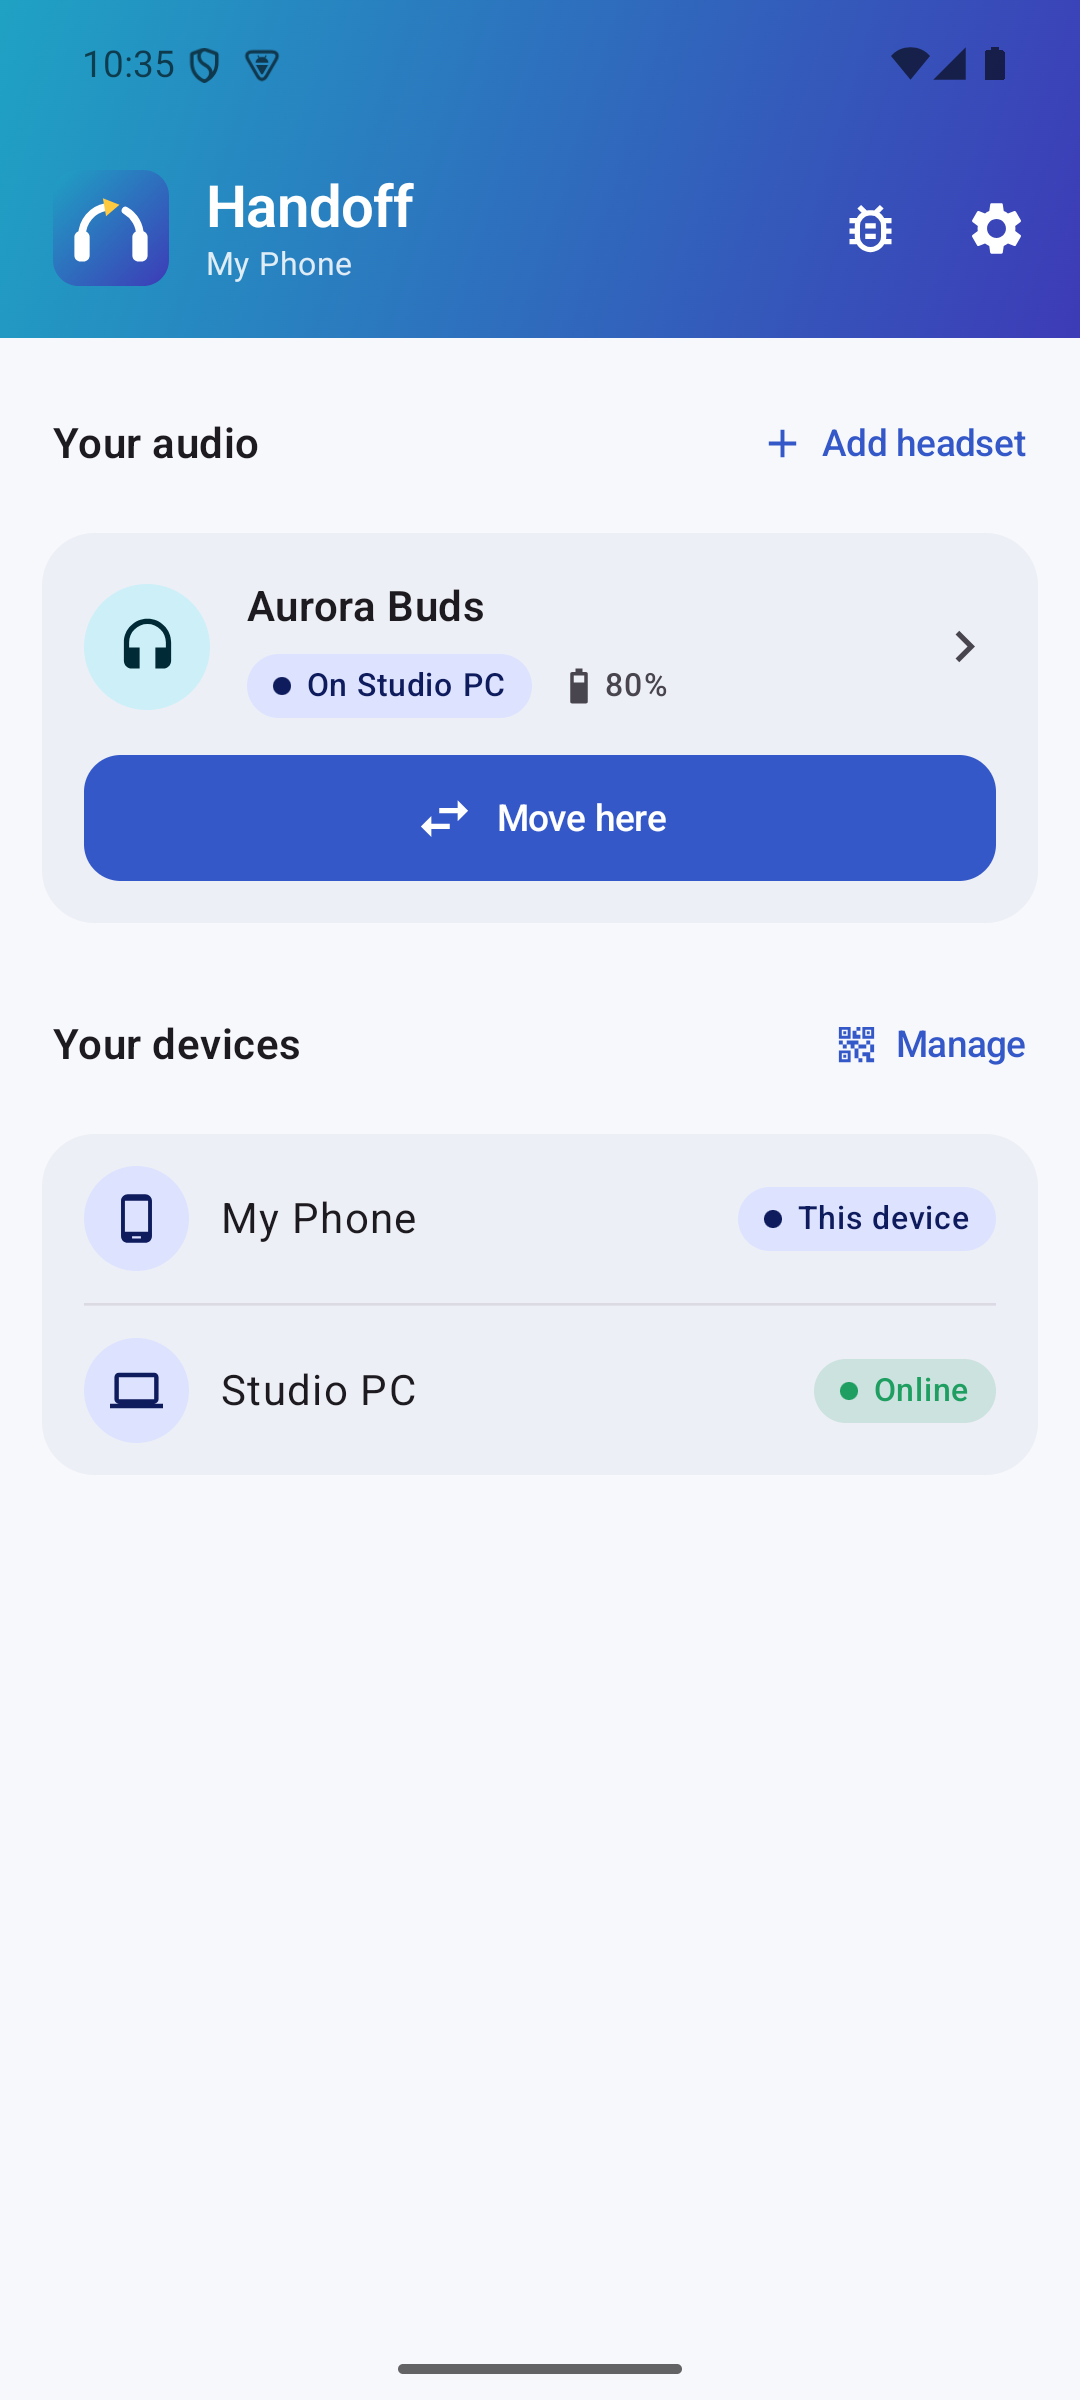
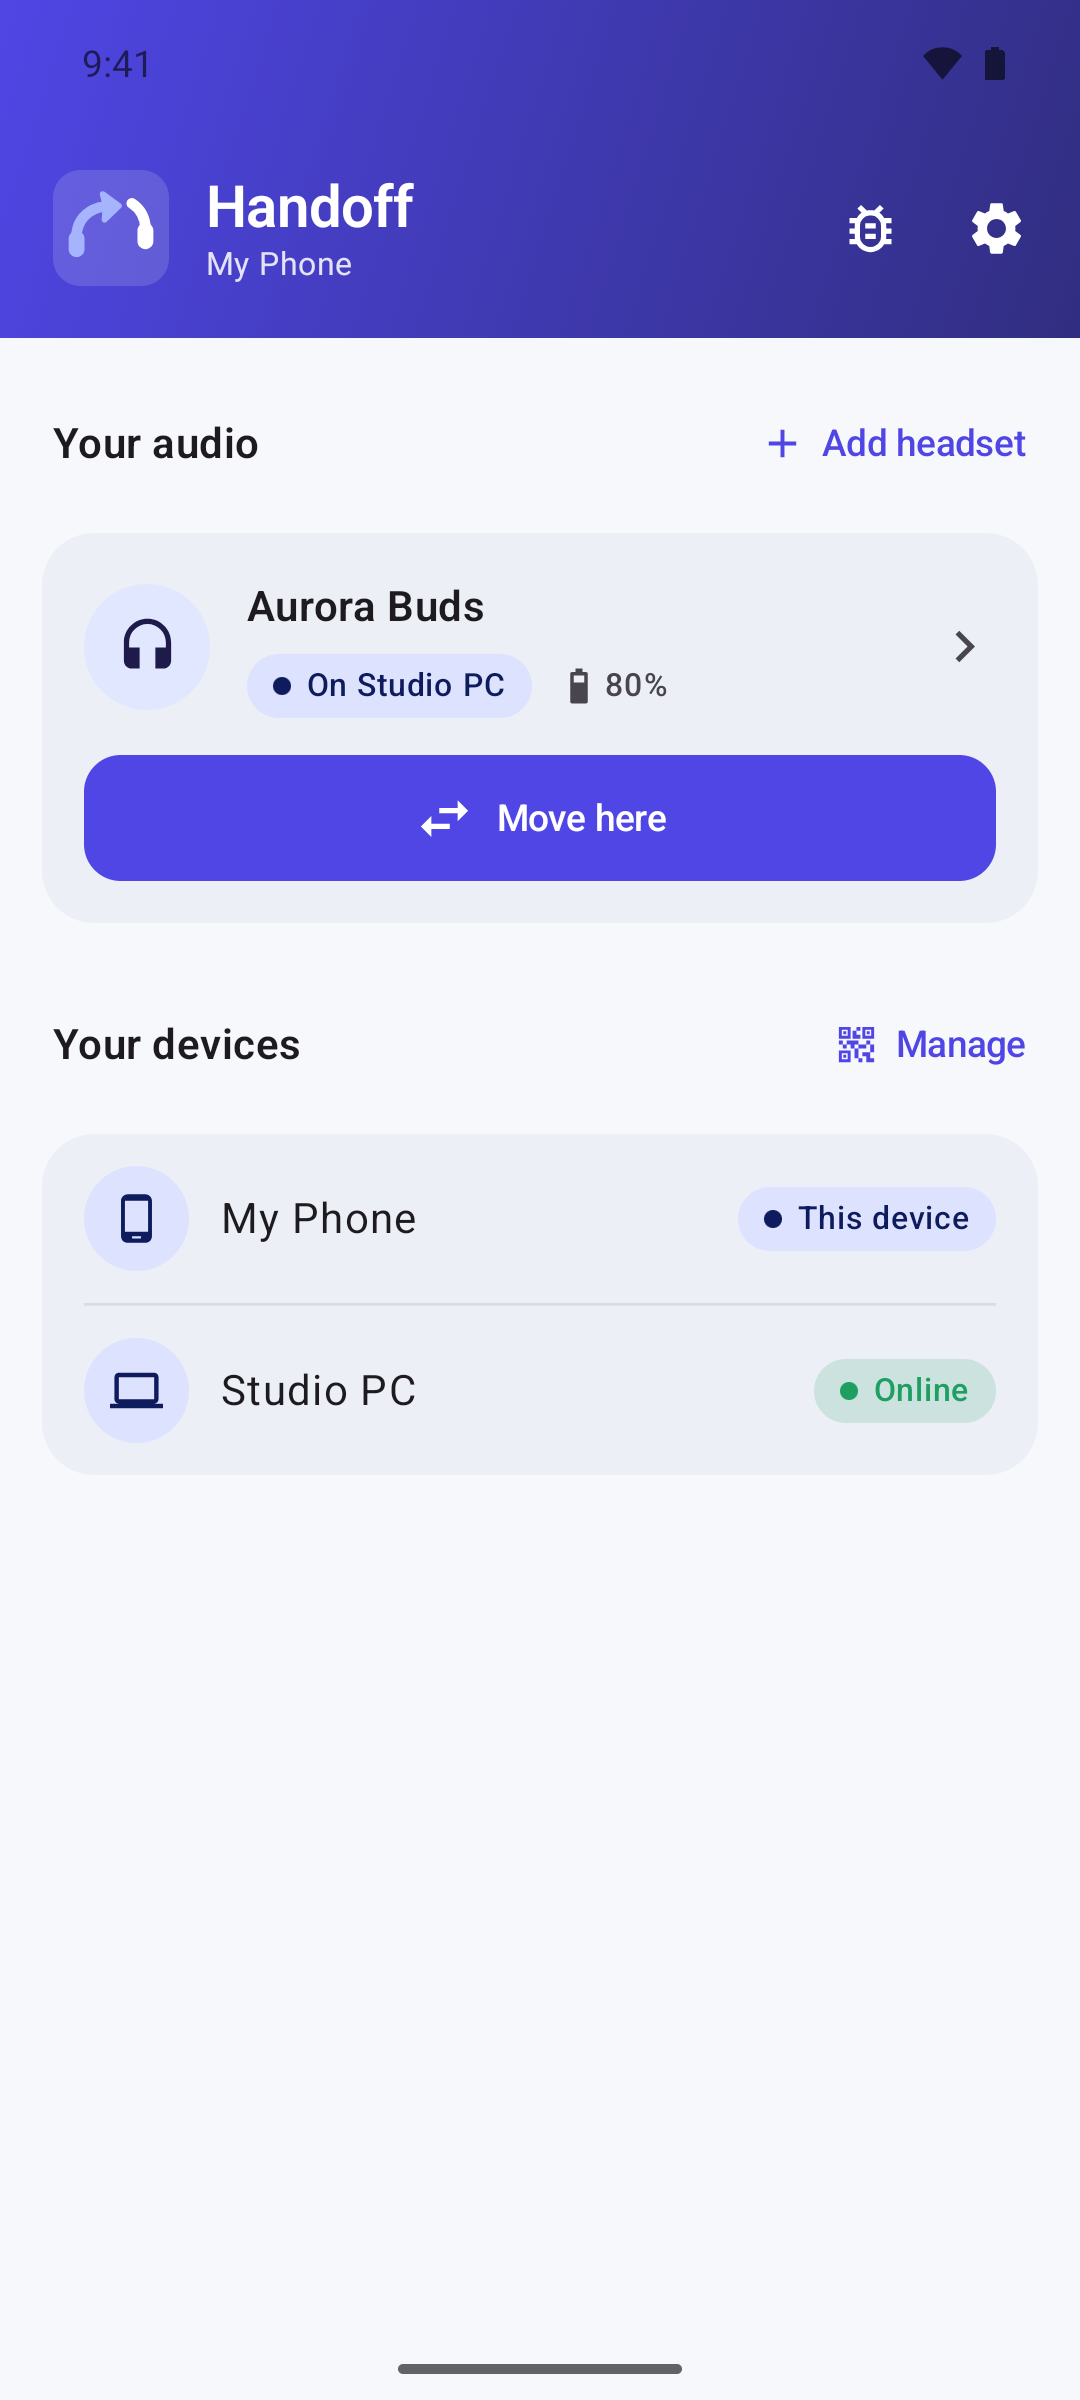
Handoff 0.6.3: new screenshots, demo mode shows a first-launch device, plain headset types
- All README and guide screenshots retaken in demo mode with the new logo and colours.
- Demo mode reports its (simulated) Bluetooth abilities as available and the device as
  Experimental, like a real device on first launch.
- Headset types read 'Headset', 'Headphones' in the add-headset lists on Android and Windows.

Changed region(s): [[0.0, 0.0, 1.0, 0.1562], [0.0611, 0.3125, 0.9472, 0.375], [0.0917, 0.25, 0.1528, 0.2812]]

diff --git a/bluetooth/src/main/kotlin/dev/handoff/bluetooth/AndroidBluetoothAudioController.kt b/bluetooth/src/main/kotlin/dev/handoff/bluetooth/AndroidBluetoothAudioController.kt
@@ -102,7 +102,15 @@ class AndroidBluetoothAudioController(
     override val diagnostics: StateFlow<BluetoothDiagnostics> = if (demo == null) {
         _diagnostics.asStateFlow()
     } else {
-        MutableStateFlow(BluetoothDiagnostics(AdapterState.ON, true, compatibility = CompatibilityLevel.SUPPORTED)).asStateFlow()
+        MutableStateFlow(
+            // Demo mode looks like a typical device on first launch: everything available, not yet verified.
+            BluetoothDiagnostics(
+                AdapterState.ON, true,
+                reflectionConnect = MethodAvailability.AVAILABLE,
+                reflectionDisconnect = MethodAvailability.AVAILABLE,
+                compatibility = CompatibilityLevel.EXPERIMENTAL,
+            ),
+        ).asStateFlow()
     }
 
     @Volatile private var lastConnectStrategy: Pair<String, Long>? = null

diff --git a/app/src/main/kotlin/dev/handoff/app/feature/device/MapDeviceScreen.kt b/app/src/main/kotlin/dev/handoff/app/feature/device/MapDeviceScreen.kt
@@ -119,7 +119,7 @@ fun MapDeviceScreen(onBack: () -> Unit, vm: MapDeviceViewModel = koinViewModel()
                     supportingContent = {
                         Text(
                             listOfNotNull(
-                                device.kind.name.lowercase().replace('_', ' ').replaceFirstChar { it.uppercase() },
+                                dev.handoff.core.text.HandoffTexts.kind(device.kind),
                                 if (device.likelyA2dp) null else "may not play music",
                                 already?.let { "already added" },
                                 match?.let { "also on ${it.announcedBy.joinToString()}" },

diff --git a/desktop/src/main/kotlin/dev/handoff/desktop/ui/Dialogs.kt b/desktop/src/main/kotlin/dev/handoff/desktop/ui/Dialogs.kt
@@ -174,7 +174,7 @@ fun AddHeadsetDialog(
                     bonded.forEach { device ->
                         OptionRow(
                             title = device.name,
-                            subtitle = if (device.fingerprint in mapped) "already added" else device.kind.name.lowercase().replace('_', ' '),
+                            subtitle = if (device.fingerprint in mapped) "Already added" else HandoffTexts.kind(device.kind),
                             selected = false,
                             icon = { Icon(kindIcon(device.kind), contentDescription = null) },
                         ) {

diff --git a/docs/releases/v0.6.3.md b/docs/releases/v0.6.3.md
@@ -1,0 +1,28 @@
+## What's changed
+
+- **No more audio cutting out with headphones that connect to two devices.** Headphones like these play whichever device last made a sound, so a notification or video on your tablet could interrupt music on your phone. **Move here** now disconnects the headphones from your other devices, so only the device you chose can play. If they end up connected to two devices anyway (many reconnect to both when switched on), Handoff says so and offers **Use only here**.
+- **New option: Stay connected to other devices.** It replaces the old "Multipoint headset" switch and is off unless you turn it on. Turn it on only if you want your headphones connected to several devices at once.
+- **Automatic switching is calmer.** It now waits until something has been playing for 2 seconds, so short sounds can't take the headphones.
+- **New look.** A new icon (headphones whose left half is an arrow, handing the sound over) and matching colours on Android and Windows.
+
+**Already using Handoff with headphones that connect to two devices?** If you had switched on **Multipoint headset**, open the headset in Handoff on each device and check that **Stay connected to other devices** is off.
+
+## Which file do I need?
+
+| Your device | Download |
+|---|---|
+| Android phone or tablet (Android 12 or newer) | **Handoff-0.6.3.apk** |
+| Windows 10 or 11 PC | **Handoff-0.6.3-setup.exe** (recommended) or **Handoff-0.6.3.msi** |
+| Windows, without installing anything | **Handoff-0.6.3-windows-portable.zip**: unzip it and run `Handoff.exe` |
+
+**Already using Handoff?** Open **Settings → Check for updates** (Android) or **Check now** (Windows) and choose **Download and install**. Your linked devices and headphones stay as they are.
+
+New to Handoff? The [getting started guide](https://github.com/FancyCorey/handoff/blob/main/docs/GETTING_STARTED.md) walks through setup step by step.
+
+## Good to know
+
+- **Android** asks you to allow installing apps from your browser or file manager the first time you open the APK.
+- **Windows** may warn "Windows protected your PC" because Handoff isn't code-signed yet. Choose **More info → Run anyway**. On PCs with *Smart App Control* switched on, Windows doesn't offer that option yet.
+- `SHA256SUMS.txt` lists the fingerprint of every file, so you can check a download hasn't been altered.
+
+Found a problem or have an idea? [Open an issue](https://github.com/FancyCorey/handoff/issues).
